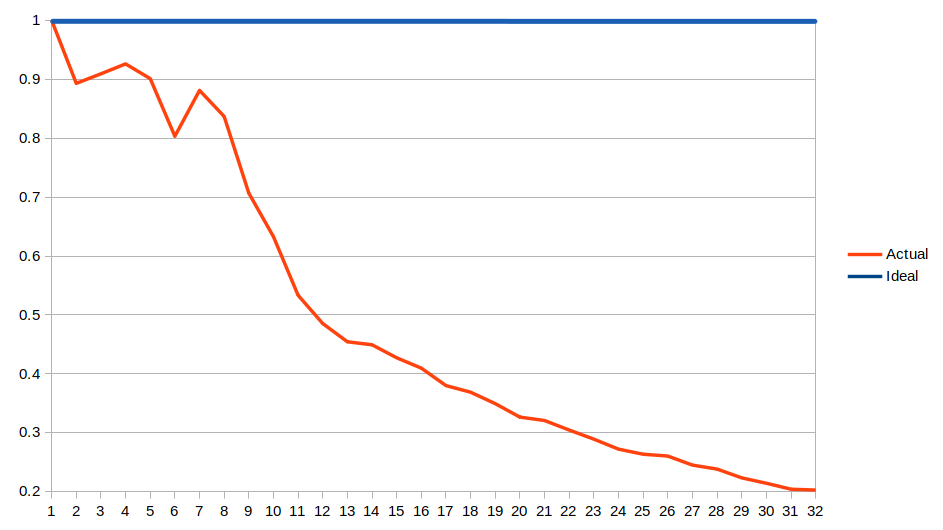
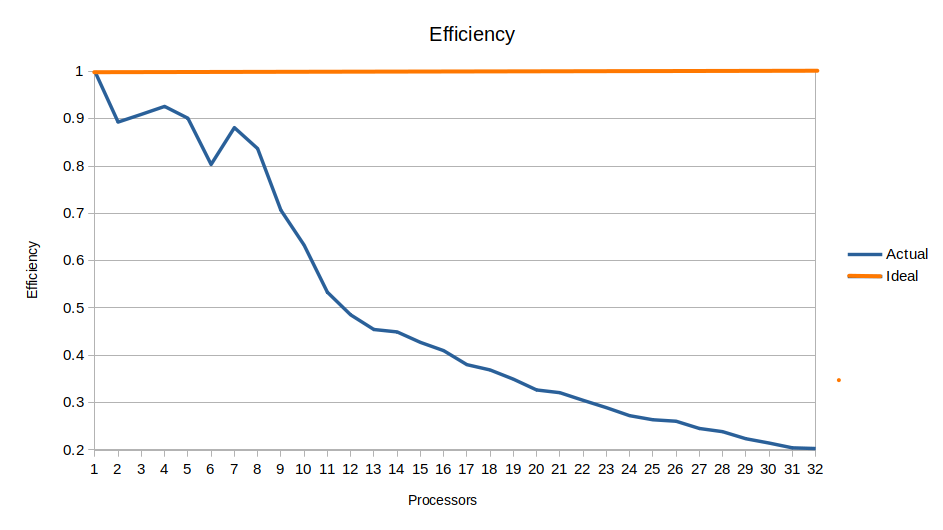
update image and readme

diff --git a/README.md b/README.md
@@ -98,18 +98,32 @@ To compile the code use ```mpicc dict.c files_info.c utils.c word_counter.c main
 Where **t(1)** is the computational time for the software running with one processor, and **t(N)** is the computational time running the same software with N processors.  
 The *scalability testing* consists in two type of testing, **weak** and **strong** scalability. 
 
+The cluster used for the benchmarks is an **Amazon AWS EC2** cluster composed by 4 instances of t2.2xlarge  (8 core processor). 
+
 ### Strong scaling
 
 The size of the problem remains constant, but the number of processors is increased, this will translate in reduced workload per processor. This test was made using 96 files **prova.txt**, each file is 40 kB of text, for a total of 4 mB.
 
 This chart shows how the time needed to resolve this problem changes with the increase of processors used in the computation.
 
-<p align="center">
-    <img src="images/strong_scalability.png">
-</p>
+![time elapsed strong scaling](images/strong_scalability.png)
 
-This one shows like the speedup varies with the increase of processors involved in the computation. (The red line shows the ideal speedup, the blue line shows the actual speed obtained)
+This one shows like the speedup varies with the increase of processors involved in the computation. (The red line shows the ideal speedup, the blue line shows the actual speedup)
 
-<p align="center">
-    <img src="speedup">
-</p>
+![speedup strong scaling](images/speedup.png)
+
+From the strong scalability tests we can conclude the best results are obtained with 18 processors. After that, the speedup starts declining. The decline can be attributed by the latency and limited bandwidth, the parallel part of the code isn't optimized correctly or the serial part of the code is acting as bottle neck. The first update that could be made, to improve the serial part, is improving the sorting and merging part. 
+
+### Weak Scalability
+
+Both number of processors and the problem size are increased. This results in a costant workload per processor. This test was made using 3 files **prova.txt** per processor, each file is 40 kB, for a total of 120 kB per processor.
+
+This chart shows how the time needed to resolve this problem changes with the increase of processors and problem size.
+
+![time elapsed weak scaling](images/weak_scalability.png)
+
+This chart shows the efficiency with the increase of the processors.
+
+![efficiency weak scaling](images/efficiency.png)
+
+The ideal efficiency would stay 1, so using only a processor, but with the increase of processors the efficiency start declaining because more data needs to be communicated between nodes, also another factor is the bandwidth of the communication network.
